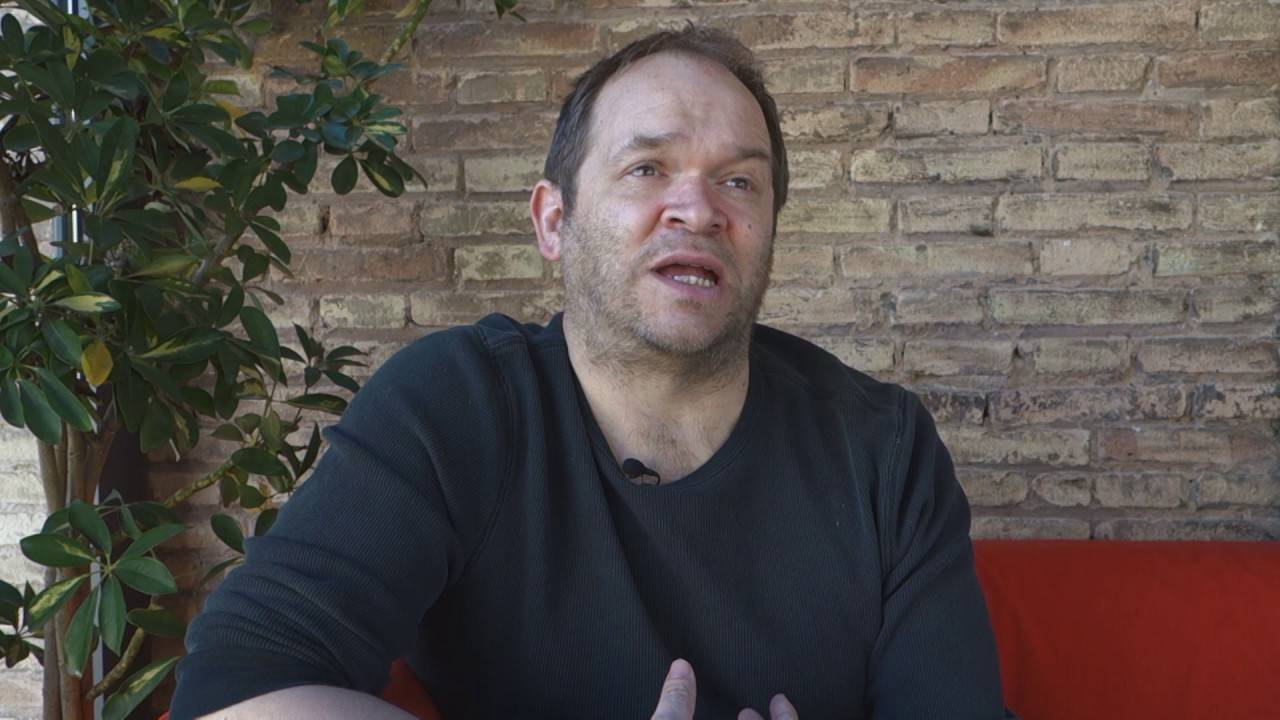
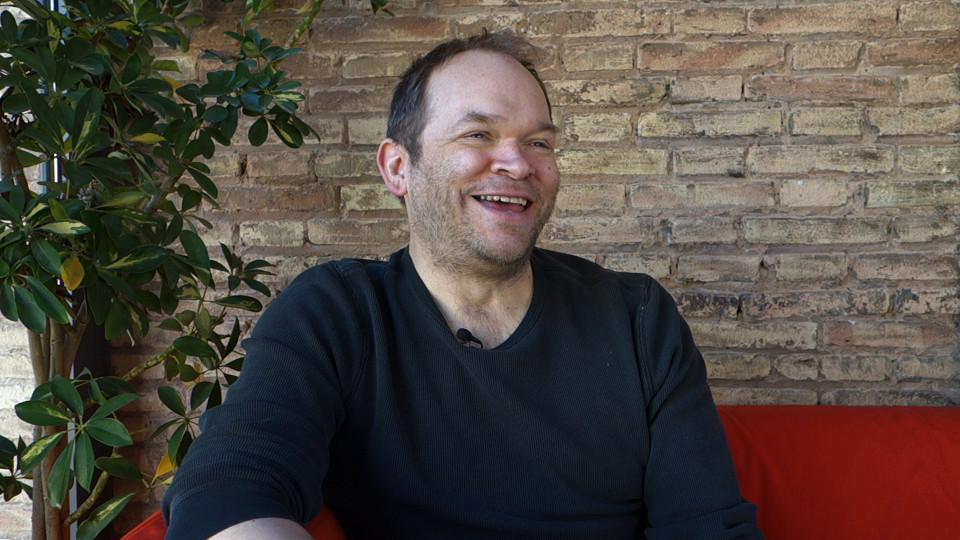
campaign: Change video of the day to Andrew Ford Lyons.

diff --git a/web/share/campaign/campaign.js b/web/share/campaign/campaign.js
@@ -89,7 +89,7 @@ function get_param_from_url(name) {
 $(document).ready(function() {
 
     // VOTD: Update VOTD here.
-    let VIDLIST = "geoffrey,hernani,leez,noah,c5,jochim,john,jason,sze,rysiek,ksenia,cindy,matt,thenmozhi,alex,andre,benjamin";
+    let VIDLIST = "andrew,geoffrey,hernani,leez,noah,c5,jochim,john,jason,sze,rysiek,ksenia,cindy,matt,thenmozhi,alex,andre,benjamin";
 
     let YTID = { "main": "wNHhkntqklg",
 		 "thenmozhi": "sQMj332dgIE",
@@ -105,7 +105,6 @@ $(document).ready(function() {
 		 "cindy": "IdCiJMc3q80",
 		 "benjamin": "atFz16nInIs",
 		 "arthur": "Js_OqRLm9F4",
-		 "andrew": "DXiU9wewjn4",
 		 "andre": "bcNLlWqZ9d0",
 		 "alex": "1OMJWpdl0DA",
                  "ksenia": "Qqg3_a72aEw",
@@ -114,7 +113,8 @@ $(document).ready(function() {
                  "c5": "Z0h_uPWFp7o",
                  "leez": "_aJPaR9Cfmk",
                  "hernani": "VJIR5zzpUr8",
-		 "geoffrey": "K8-pmUyegYk"
+		 "geoffrey": "K8-pmUyegYk",
+		 "andrew": "l1ByJCSvQKk"
 	       };
 
     /* For the video preview, we use this for devices without hover events.  */
